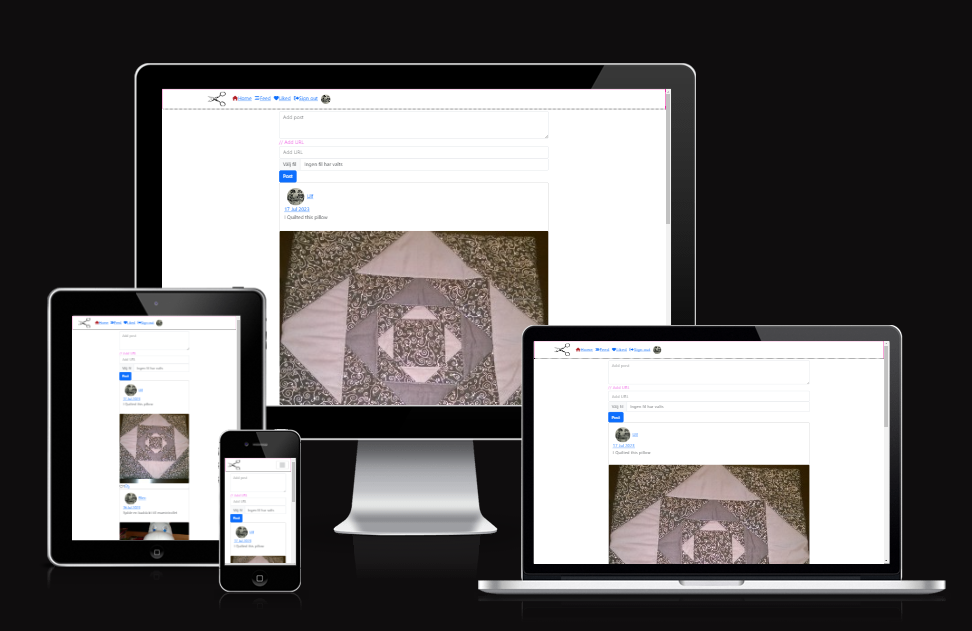
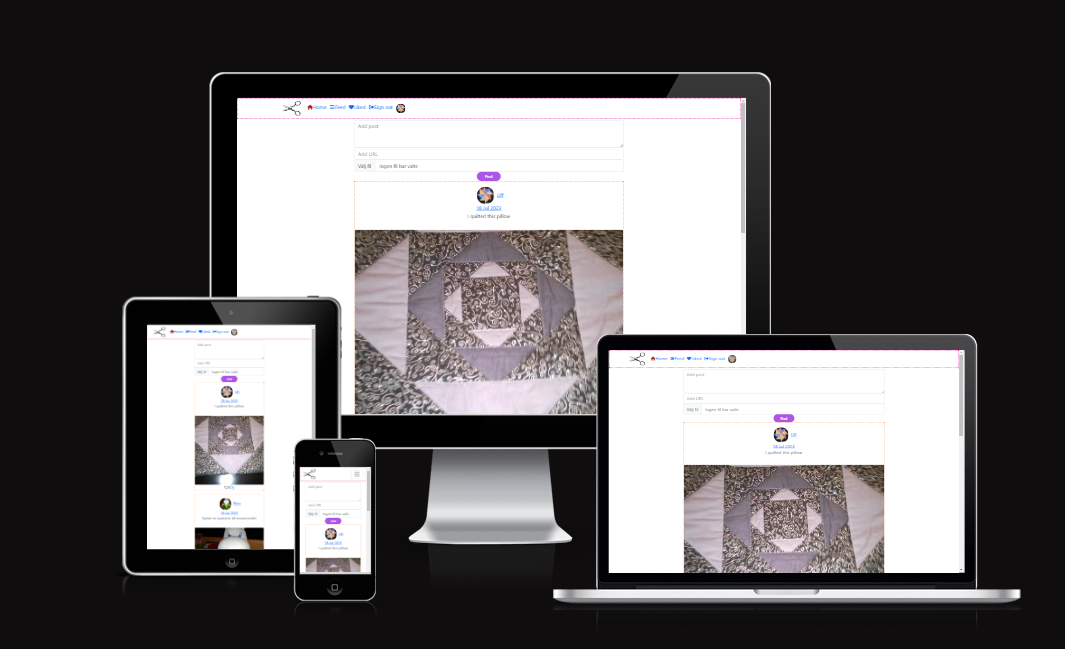
Coment out consollog and remove feed link

Changed region(s): [[0.0309, 0.0903, 0.9877, 0.9635]]

diff --git a/src/pages/posts/PostsPage.js b/src/pages/posts/PostsPage.js
@@ -35,7 +35,7 @@ function PostsPage({ message, filter = "", currentposts, hasLoaded, setPosts }) 
     event.preventDefault();
 
     if (content.trim() === "") {
-      console.log("Can't post without text");
+      // console.log("Can't post without text");
       setErrorMessage("Can't post without text");
       return;
     }
@@ -69,7 +69,7 @@ function PostsPage({ message, filter = "", currentposts, hasLoaded, setPosts }) 
         results: [newPost, ...prevPosts.results],
       }));
     } catch (error) {
-      console.log(error);
+      // console.log(error);
     }
   };
 

diff --git a/src/components/NavBar.js b/src/components/NavBar.js
@@ -33,7 +33,7 @@ const NavBar = () => {
       removeTokenTimestamp();
       history.push("/signin");
     } catch (err) {
-      console.log(err);
+      //console.log(err);
     }
   };
 
@@ -49,13 +49,6 @@ const NavBar = () => {
         to="/"
       >
         <i className="fas fa-home"></i>Home
-      </NavLink>
-      <NavLink
-        className={styles.NavLink}
-        activeClassName={styles.Active}
-        to="/feed"
-      >
-        <i className="fas fa-stream"></i>Feed
       </NavLink>
       <NavLink
         className={styles.NavLink}

diff --git a/src/pages/posts/PostEditForm.js b/src/pages/posts/PostEditForm.js
@@ -34,7 +34,7 @@ function PostEditForm() {
 
         is_owner ? setPostData({ content, url, image }) : history.push("/");
       } catch (err) {
-        console.log(err);
+        // console.log(err);
       }
     };
 
@@ -90,7 +90,7 @@ function PostEditForm() {
       await axiosReq.put(`/posts/${id}/`, formData);
       history.push(`/posts/${id}`);
     } catch (err) {
-      console.log(err);
+      // console.log(err);
       if (err.response?.status !== 401) {
         setErrors(err.response?.data);
       }

diff --git a/src/pages/profiles/ProfileEditForm.js b/src/pages/profiles/ProfileEditForm.js
@@ -33,7 +33,7 @@ const ProfileEditForm = () => {
           description: description || "",
         }));
       } catch (err) {
-        console.log(err);
+        // console.log(err);
         history.push("/");
       }
     };
@@ -78,7 +78,7 @@ const ProfileEditForm = () => {
       }));
       history.goBack();
     } catch (err) {
-      console.log(err);
+      // console.log(err);
       setErrors(err.response?.data);
     }
   };

diff --git a/src/pages/comments/Comment.js b/src/pages/comments/Comment.js
@@ -31,7 +31,7 @@ function Comment(props) {
         results: prevComments.results.filter((comment) => comment.id !== id),
       }));
     } catch (err) {
-      console.log(err);
+      // console.log(err);
     }
   };
 
@@ -46,7 +46,7 @@ function Comment(props) {
       setEditedContent(data.content);
       setIsEditing(false);
     } catch (err) {
-      console.log(err);
+      // console.log(err);
     }
   };
 

diff --git a/src/pages/auth/SignUpForm.js b/src/pages/auth/SignUpForm.js
@@ -53,7 +53,7 @@ const SignUpForm = () => {
       const { from } = location.state || { from: { pathname: "/" } };
       history.replace(from);
     } catch (err) {
-      console.log(err.response?.data);
+      // console.log(err.response?.data);
       setErrors(err.response?.data);
     }
   };

diff --git a/src/pages/posts/PostPage.js b/src/pages/posts/PostPage.js
@@ -18,7 +18,7 @@ function PostPage() {
         const { data } = await axiosReq.get(`/posts/${id}`);
         setPost(data);
       } catch (err) {
-        console.log(err);
+        // console.log(err);
       }
     };
 

diff --git a/src/pages/profiles/ProfilePage.js b/src/pages/profiles/ProfilePage.js
@@ -51,7 +51,7 @@ function ProfilePage() {
         setProfilePosts(profilePosts);
         setHasLoaded(true);
       } catch (err) {
-        console.log(err);
+        // console.log(err);
       }
     };
 

diff --git a/src/pages/posts/FollowedProfiles.js b/src/pages/posts/FollowedProfiles.js
@@ -21,7 +21,7 @@ const FollowedProfiles = () => {
         );
         setFollowedPosts(response.data);
       } catch (error) {
-        console.log(error);
+        // console.log(error);
       }
     };
 

diff --git a/src/App.js b/src/App.js
@@ -38,7 +38,7 @@ function App() {
         setPosts(data);
         setHasLoaded(true);
       } catch (err) {
-        console.log(err);
+        //console.log(err);
       }
     };
 

diff --git a/README.md b/README.md
@@ -108,7 +108,7 @@ This project includes two custom models, Post and Comment.
 
 
 ## Technologies
-- HTML
+- JSX
 - CSS
 - JavaScript
 
